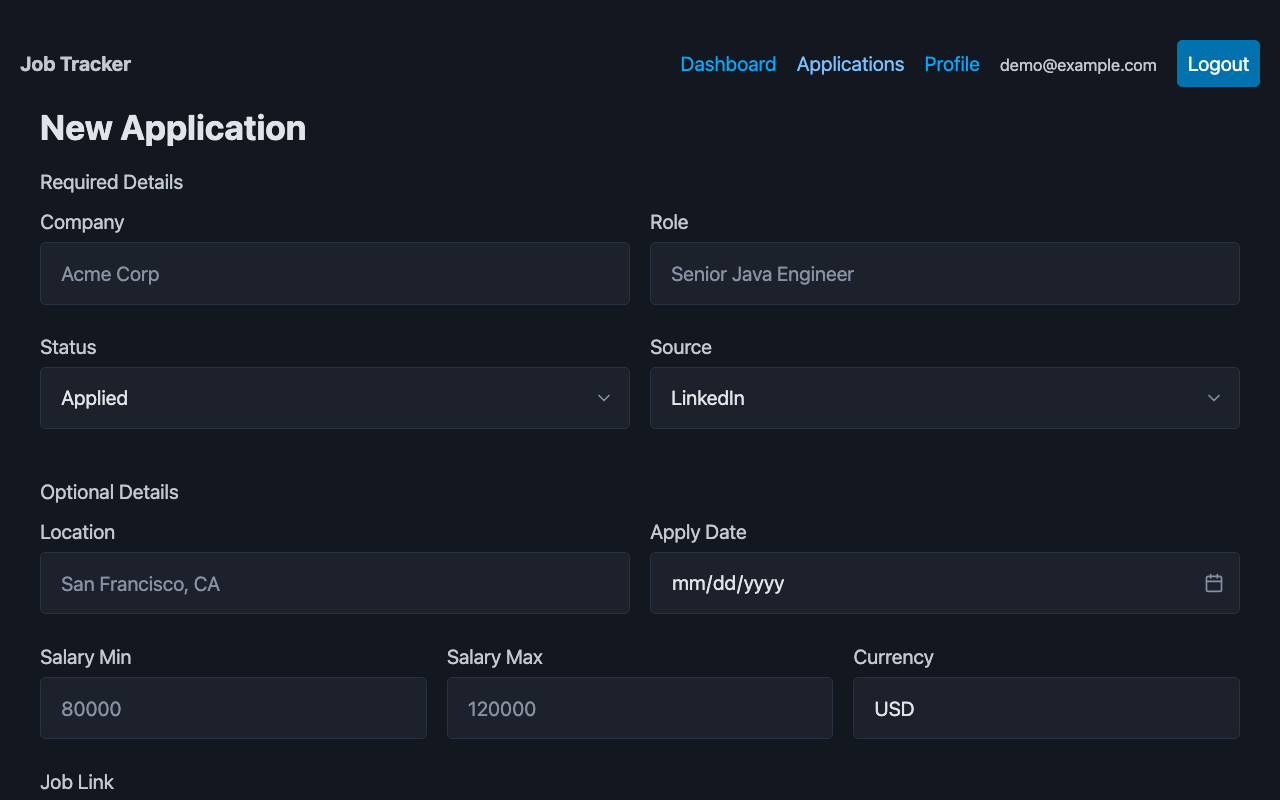
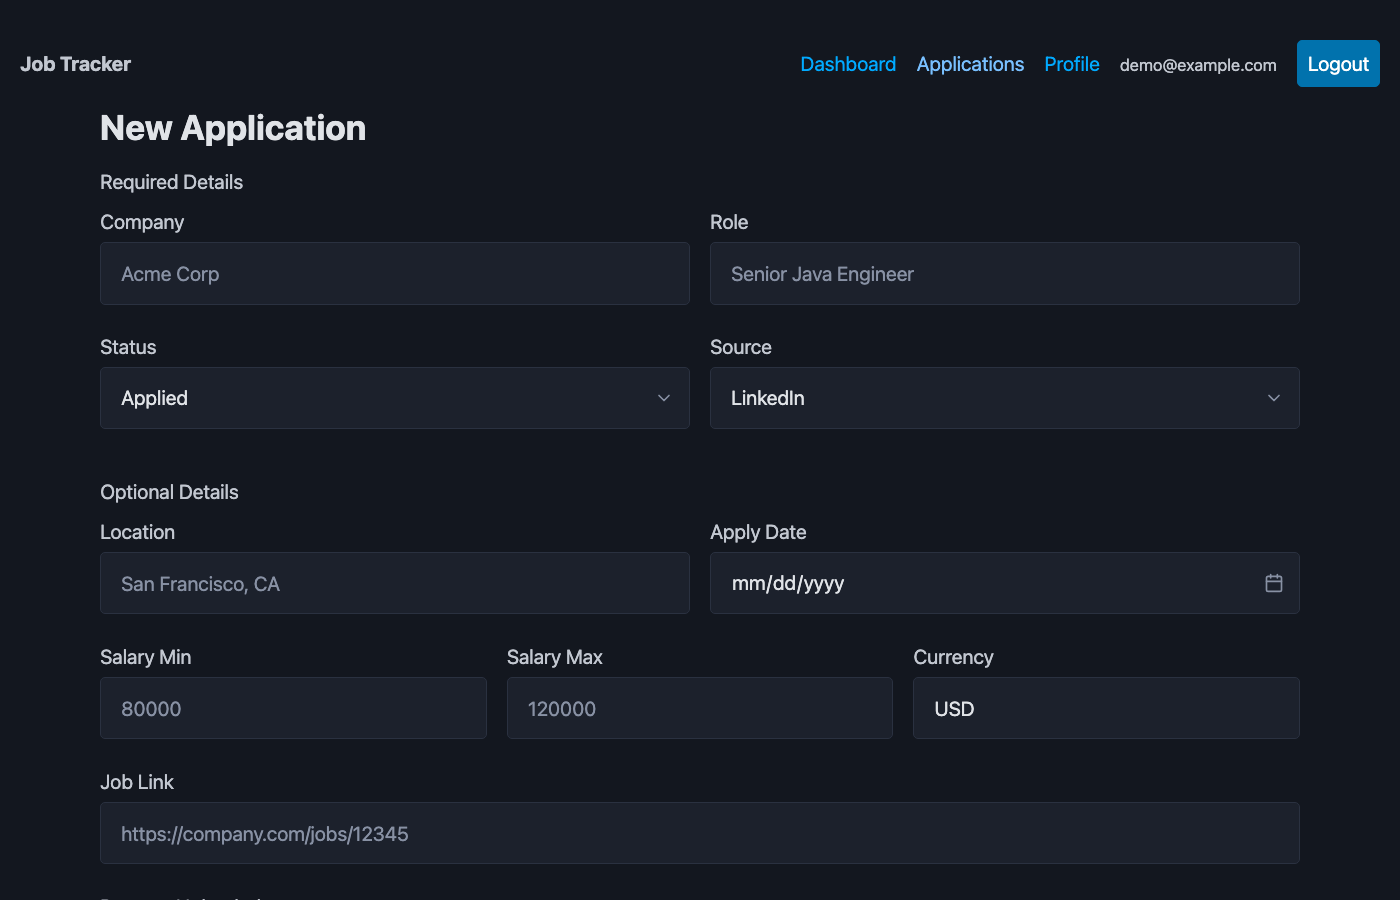
feat: add AI Insights card powered by local LLM (Ollama)
- Add Ollama service to docker-compose (qwen2.5:1.5b, port 11434)
- Add ollama-init one-shot container to pull model on first run
- Add GET /v1/stats/insights endpoint in stats-service: aggregates
  summary/trend/breakdown/roles data, sends to Ollama via RestClient,
  returns 3-5 actionable coaching insights as JSON
- Cache insights in Redis with 30-min TTL; fallback responses are
  never cached so the card recovers automatically once Ollama is ready
- Add InsightsDto record and InsightsService with robust JSON array
  extraction (handles trailing text and code fences from LLM)
- Wire QueryClientProvider in frontend main.tsx
- Add AI Insights card to Dashboard with loading skeleton, refresh
  button, and graceful error/fallback state
- Update README with feature description, API endpoint, service table,
  startup notes, and Ollama badge
- Refresh all screenshots using demo user

diff --git a/frontend/src/routes/Dashboard.tsx b/frontend/src/routes/Dashboard.tsx
@@ -1,8 +1,9 @@
 import { useEffect, useState } from 'react'
+import { useQuery } from '@tanstack/react-query'
 import {
   BarChart, Bar, XAxis, YAxis, CartesianGrid, Tooltip, Legend, ResponsiveContainer,
 } from 'recharts'
-import { getBreakdown, getRoleCounts, type BreakdownResponse, type RoleCountsResponse } from '../api/stats'
+import { getBreakdown, getInsights, getRoleCounts, type BreakdownResponse, type RoleCountsResponse } from '../api/stats'
 
 const USE_MOCK = (import.meta.env.VITE_USE_MOCK ?? 'true') === 'true'
 const CURRENT_YEAR = new Date().getFullYear()
@@ -38,6 +39,20 @@ export default function Dashboard() {
     fetchData(controller.signal)
     return () => controller.abort()
   }, [groupBy, year]) // eslint-disable-line react-hooks/exhaustive-deps
+
+  const {
+    data: insightsData,
+    isLoading: insightsLoading,
+    isError: insightsError,
+    isFetching: insightsFetching,
+    refetch: refetchInsights,
+  } = useQuery({
+    queryKey: ['insights'],
+    queryFn: getInsights,
+    staleTime: 30 * 60 * 1000,
+    retry: 1,
+    enabled: !USE_MOCK,
+  })
 
   const windows = data?.openWindows
   const rows = data?.rows ?? []
@@ -98,6 +113,51 @@ export default function Dashboard() {
         ))}
       </div>
       <p style={{ fontSize: '0.7rem', color: 'var(--pico-muted-color)', marginBottom: '1rem', marginTop: 0 }}>Open applications (excl. Rejected / Accepted / Withdrawn)</p>
+
+      {/* AI Insights card */}
+      {!USE_MOCK && (
+        <article style={{ marginBottom: '1rem', padding: '1rem' }}>
+          <header style={{ display: 'flex', alignItems: 'center', justifyContent: 'space-between', marginBottom: '0.75rem' }}>
+            <span style={{ fontSize: '0.82rem', fontWeight: 600 }}>AI Insights</span>
+            <button
+              style={{ padding: '3px 10px', fontSize: '0.75rem', marginBottom: 0 }}
+              className="secondary"
+              onClick={() => refetchInsights()}
+              disabled={insightsFetching}
+              aria-busy={insightsFetching}
+            >
+              {insightsFetching ? 'Generating…' : 'Refresh'}
+            </button>
+          </header>
+
+          {insightsLoading && (
+            <div style={{ display: 'flex', flexDirection: 'column', gap: '0.5rem' }}>
+              {[80, 65, 72].map(w => (
+                <div key={w} aria-hidden="true" style={{ height: '0.9rem', borderRadius: '4px', background: 'var(--pico-muted-border-color)', width: `${w}%`, animation: 'pulse 1.5s ease-in-out infinite' }} />
+              ))}
+            </div>
+          )}
+
+          {!insightsLoading && insightsError && (
+            <p style={{ fontSize: '0.82rem', color: 'var(--pico-muted-color)', margin: 0 }}>
+              Could not load insights. <button style={{ padding: 0, background: 'none', border: 'none', color: 'var(--pico-primary)', cursor: 'pointer', fontSize: '0.82rem' }} onClick={() => refetchInsights()}>Retry</button>
+            </p>
+          )}
+
+          {!insightsLoading && !insightsError && insightsData && (
+            <>
+              <ul style={{ margin: 0, paddingLeft: '1.2rem', display: 'flex', flexDirection: 'column', gap: '0.35rem' }}>
+                {insightsData.insights.map((insight, i) => (
+                  <li key={i} style={{ fontSize: '0.82rem', lineHeight: 1.5 }}>{insight}</li>
+                ))}
+              </ul>
+              <p style={{ fontSize: '0.68rem', color: 'var(--pico-muted-color)', margin: '0.6rem 0 0' }}>
+                Generated at {new Date(insightsData.generatedAt).toLocaleTimeString()}
+              </p>
+            </>
+          )}
+        </article>
+      )}
 
       {error && <article><header>Error</header><p>{error}</p></article>}
       {loading && <article aria-busy="true"><p>Loading…</p></article>}

diff --git a/frontend/src/main.tsx b/frontend/src/main.tsx
@@ -1,5 +1,6 @@
 import React from 'react'
 import ReactDOM from 'react-dom/client'
+import { QueryClient, QueryClientProvider } from '@tanstack/react-query'
 import { createBrowserRouter, RouterProvider, Navigate } from 'react-router-dom'
 import App from './App'
 import './index.css'
@@ -15,6 +16,8 @@ import ErrorPage from './routes/ErrorPage'
 import { AuthProvider } from './auth/AuthContext'
 import RequireAuth from './auth/RequireAuth'
 import { ErrorBoundary } from './components/ErrorBoundary'
+
+const queryClient = new QueryClient()
 
 const router = createBrowserRouter([
   {
@@ -43,9 +46,11 @@ const router = createBrowserRouter([
 ReactDOM.createRoot(document.getElementById('root')!).render(
   <React.StrictMode>
     <ErrorBoundary>
-      <AuthProvider>
-        <RouterProvider router={router} />
-      </AuthProvider>
+      <QueryClientProvider client={queryClient}>
+        <AuthProvider>
+          <RouterProvider router={router} />
+        </AuthProvider>
+      </QueryClientProvider>
     </ErrorBoundary>
   </React.StrictMode>
 )

diff --git a/frontend/src/api/stats.ts b/frontend/src/api/stats.ts
@@ -78,3 +78,13 @@ export async function getRoleCounts(groupBy: 'month' | 'year', year?: number): P
   const res = await httpStats.get<RoleCountsResponse>('/stats/roles', { params })
   return res.data
 }
+
+export interface InsightsResponse {
+  insights: string[]
+  generatedAt: string
+}
+
+export async function getInsights(): Promise<InsightsResponse> {
+  const res = await httpStats.get<InsightsResponse>('/stats/insights')
+  return res.data
+}

diff --git a/backend/stats-service/src/main/java/com/jobtracker/stats/service/InsightsService.java b/backend/stats-service/src/main/java/com/jobtracker/stats/service/InsightsService.java
@@ -1,0 +1,121 @@
+package com.jobtracker.stats.service;
+
+import com.fasterxml.jackson.databind.JsonNode;
+import com.fasterxml.jackson.databind.ObjectMapper;
+import com.fasterxml.jackson.databind.SerializationFeature;
+import com.fasterxml.jackson.datatype.jsr310.JavaTimeModule;
+import com.jobtracker.stats.api.dto.InsightsDto;
+import com.jobtracker.stats.config.CacheConfig;
+import org.slf4j.Logger;
+import org.slf4j.LoggerFactory;
+import org.springframework.beans.factory.annotation.Value;
+import org.springframework.cache.Cache;
+import org.springframework.cache.CacheManager;
+import org.springframework.http.MediaType;
+import org.springframework.stereotype.Service;
+import org.springframework.web.client.RestClient;
+
+import java.time.LocalDate;
+import java.time.OffsetDateTime;
+import java.util.LinkedHashMap;
+import java.util.List;
+import java.util.Map;
+import java.util.UUID;
+
+@Service
+public class InsightsService {
+
+    private static final Logger log = LoggerFactory.getLogger(InsightsService.class);
+
+    private final StatsService statsService;
+    private final CacheManager cacheManager;
+    private final RestClient restClient;
+    private final String model;
+    private final ObjectMapper objectMapper;
+
+    public InsightsService(
+            StatsService statsService,
+            CacheManager cacheManager,
+            @Value("${ollama.base-url}") String baseUrl,
+            @Value("${ollama.model}") String model) {
+        this.statsService = statsService;
+        this.cacheManager = cacheManager;
+        this.model = model;
+        this.restClient = RestClient.builder()
+                .baseUrl(baseUrl)
+                .defaultHeader("Content-Type", "application/json")
+                .build();
+        this.objectMapper = new ObjectMapper()
+                .registerModule(new JavaTimeModule())
+                .disable(SerializationFeature.WRITE_DATES_AS_TIMESTAMPS);
+    }
+
+    public InsightsDto generateInsights(UUID userId) {
+        // Check cache manually so we can skip caching fallback responses
+        Cache cache = cacheManager.getCache(CacheConfig.CACHE_INSIGHTS);
+        if (cache != null) {
+            Cache.ValueWrapper cached = cache.get(userId.toString());
+            if (cached != null) return (InsightsDto) cached.get();
+        }
+        try {
+            int currentYear = LocalDate.now().getYear();
+
+            Map<String, Object> statsData = new LinkedHashMap<>();
+            statsData.put("summary_30d", statsService.getSummary(userId, 30));
+            statsData.put("trend_12w", statsService.getTrend(userId, 12));
+            statsData.put("breakdown_current_year", statsService.getBreakdown(userId, "month", currentYear));
+            statsData.put("role_distribution_current_year", statsService.getRoleCounts(userId, "month", currentYear));
+
+            String statsJson = objectMapper.writeValueAsString(statsData);
+
+            String prompt = """
+                    You are a job search coach. Analyze this user's job application data.
+                    Respond in English only.
+                    Return ONLY a valid JSON array of 3-5 concise, actionable insight strings. No explanation, no markdown, just the array.
+                    Focus on: response rates by source, ghosting patterns, application velocity, role trends, anomalies.
+
+                    Data: """ + statsJson;
+
+            Map<String, Object> requestBody = Map.of(
+                    "model", model,
+                    "messages", List.of(Map.of("role", "user", "content", prompt)),
+                    "stream", false
+            );
+
+            String requestJson = objectMapper.writeValueAsString(requestBody);
+
+            String responseBody = restClient.post()
+                    .uri("/v1/chat/completions")
+                    .contentType(MediaType.APPLICATION_JSON)
+                    .body(requestJson)
+                    .retrieve()
+                    .body(String.class);
+
+            JsonNode root = objectMapper.readTree(responseBody);
+            String content = root.at("/choices/0/message/content").asText();
+
+            // Extract the JSON array — find first '[' to matching ']', ignoring any surrounding text or code fences
+            int start = content.indexOf('[');
+            int end = content.lastIndexOf(']');
+            if (start == -1 || end == -1 || end <= start) {
+                throw new IllegalArgumentException("No JSON array found in LLM response: " + content);
+            }
+            content = content.substring(start, end + 1);
+
+            List<String> insights = objectMapper.readValue(
+                    content,
+                    objectMapper.getTypeFactory().constructCollectionType(List.class, String.class));
+
+            InsightsDto result = new InsightsDto(insights, OffsetDateTime.now().toString());
+            log.info("Generated {} insights for userId={}", insights.size(), userId);
+            if (cache != null) cache.put(userId.toString(), result);
+            return result;
+
+        } catch (Exception e) {
+            log.warn("Failed to generate insights for userId={}: {}", userId, e.getMessage());
+            return new InsightsDto(
+                    List.of("Insights unavailable — LLM service is starting up."),
+                    OffsetDateTime.now().toString());
+        }
+    }
+}

diff --git a/backend/stats-service/src/main/java/com/jobtracker/stats/config/CacheConfig.java b/backend/stats-service/src/main/java/com/jobtracker/stats/config/CacheConfig.java
@@ -4,6 +4,7 @@ import com.fasterxml.jackson.databind.ObjectMapper;
 import com.fasterxml.jackson.databind.SerializationFeature;
 import com.fasterxml.jackson.datatype.jsr310.JavaTimeModule;
 import com.jobtracker.stats.api.dto.BreakdownResponseDto;
+import com.jobtracker.stats.api.dto.InsightsDto;
 import com.jobtracker.stats.api.dto.RoleCountsResponseDto;
 import com.jobtracker.stats.api.dto.StatsSummaryDto;
 import com.jobtracker.stats.api.dto.TrendResponseDto;
@@ -28,6 +29,7 @@ public class CacheConfig {
     public static final String CACHE_TREND     = "stats-trend";
     public static final String CACHE_BREAKDOWN = "stats-breakdown";
     public static final String CACHE_ROLES     = "stats-roles";
+    public static final String CACHE_INSIGHTS  = "stats-insights";
 
     @Bean
     public RedisCacheManager cacheManager(RedisConnectionFactory cf) {
@@ -55,6 +57,10 @@ public class CacheConfig {
                 .withCacheConfiguration(CACHE_ROLES,
                         base.serializeValuesWith(fromSerializer(
                                 new Jackson2JsonRedisSerializer<>(om, RoleCountsResponseDto.class))))
+                .withCacheConfiguration(CACHE_INSIGHTS,
+                        base.entryTtl(Duration.ofMinutes(30))
+                            .serializeValuesWith(fromSerializer(
+                                new Jackson2JsonRedisSerializer<>(om, InsightsDto.class))))
                 .build();
     }
 }

diff --git a/backend/stats-service/src/main/java/com/jobtracker/stats/api/StatsController.java b/backend/stats-service/src/main/java/com/jobtracker/stats/api/StatsController.java
@@ -1,9 +1,11 @@
 package com.jobtracker.stats.api;
 
 import com.jobtracker.stats.api.dto.BreakdownResponseDto;
+import com.jobtracker.stats.api.dto.InsightsDto;
 import com.jobtracker.stats.api.dto.RoleCountsResponseDto;
 import com.jobtracker.stats.api.dto.StatsSummaryDto;
 import com.jobtracker.stats.api.dto.TrendResponseDto;
+import com.jobtracker.stats.service.InsightsService;
 import com.jobtracker.stats.service.StatsService;
 import jakarta.validation.constraints.Max;
 import jakarta.validation.constraints.Min;
@@ -24,9 +26,11 @@ import java.util.UUID;
 public class StatsController {
 
     private final StatsService svc;
+    private final InsightsService insightsService;
 
-    public StatsController(StatsService svc) {
+    public StatsController(StatsService svc, InsightsService insightsService) {
         this.svc = svc;
+        this.insightsService = insightsService;
     }
 
     @GetMapping("/summary")
@@ -50,6 +54,11 @@ public class StatsController {
             @RequestParam(defaultValue = "month") String groupBy,
             @RequestParam(required = false) Integer year) {
         return svc.getBreakdown(currentUserId(), groupBy, year);
+    }
+
+    @GetMapping("/insights")
+    public InsightsDto getInsights() {
+        return insightsService.generateInsights(currentUserId());
     }
 
     @GetMapping("/roles")

diff --git a/backend/stats-service/src/main/java/com/jobtracker/stats/api/dto/InsightsDto.java b/backend/stats-service/src/main/java/com/jobtracker/stats/api/dto/InsightsDto.java
@@ -1,0 +1,5 @@
+package com.jobtracker.stats.api.dto;
+
+import java.util.List;
+
+public record InsightsDto(List<String> insights, String generatedAt) {}

diff --git a/README.md b/README.md
@@ -10,7 +10,7 @@ A full-stack job application tracking platform built with a microservices archit
 |---|---|
 | ![Login](docs/screenshots/login.png) | ![Register](docs/screenshots/register.png) |
 
-| Dashboard | Applications |
+| Dashboard (with AI Insights) | Applications |
 |---|---|
 | ![Dashboard](docs/screenshots/dashboard.png) | ![Applications](docs/screenshots/applications.png) |
 
@@ -43,6 +43,7 @@ A full-stack job application tracking platform built with a microservices archit
 
 ![Docker](https://img.shields.io/badge/Docker-Compose-2496ED?style=flat-square&logo=docker)
 ![Redis](https://img.shields.io/badge/Redis-7-DC382D?style=flat-square&logo=redis)
+![Ollama](https://img.shields.io/badge/Ollama-LLM-000000?style=flat-square)
 ![Prometheus](https://img.shields.io/badge/Prometheus-monitoring-E6522C?style=flat-square&logo=prometheus)
 ![Zipkin](https://img.shields.io/badge/Zipkin-tracing-FE7139?style=flat-square)
 
@@ -103,7 +104,8 @@ JobTracker follows an **event-driven CQRS-like pattern** — writes and reads ar
 | **config-server** | 8888 | Centralized config for all services (Spring Cloud Config) |
 | **PostgreSQL** | 5432 | Two databases: `jt_apps` (write) and `jt_stats` (read) |
 | **Kafka** | 9092 | KRaft mode, topic: `application-events` |
-| **Redis** | 6379 | Cache for all three stats endpoints, 5-minute TTL |
+| **Redis** | 6379 | Cache for stats endpoints (5-min TTL) and AI insights (30-min TTL) |
+| **Ollama** | 11434 | Local LLM server — serves `qwen2.5:1.5b` for AI insights generation |
 | **Prometheus** | 9090 | Scrapes `/actuator/prometheus` from all Spring Boot services |
 | **Zipkin** | 9411 | Distributed tracing, 100% sampling |
 
@@ -126,6 +128,7 @@ This is the **Transactional Outbox Pattern** — Kafka being down never causes d
 - **CSV Import** — Bulk import applications from a spreadsheet export; handles quoted commas, multiple date formats, salary parsing (`$50K`, `50,000–80,000`), and flexible status mapping (`Open` → APPLIED, `Closed` → REJECTED, Open + Call → PHONE)
 - **Bulk delete** — Select any number of applications via per-row checkboxes or the select-all header checkbox, then delete them all in one click; deletions are fired in parallel and the list updates immediately
 - **Advanced filtering** — Filter applications by status, search (company/role), month, year, and call received; sort by apply date or date added; page-based pagination (20 per page)
+- **AI Insights** — The Dashboard includes an "AI Insights" card powered by a locally-running LLM (Ollama + `qwen2.5:1.5b`). It aggregates all your stats data (30-day summary, 12-week trend, monthly breakdown, role distribution) and generates 3–5 concise, actionable coaching insights. Responses are cached in Redis for 30 minutes; a Refresh button busts the cache on demand. Fully offline — no API key required
 - **Analytics Dashboard** — By Month / By Year toggle with grouped Applied vs Rejected bar chart, summary table, and 7 open-window KPI cards (last 7d / 15d / 30d / 3mo / 6mo / 9mo / 1yr)
 - **Pre-computed aggregate tables** — `agg_monthly` and `agg_weekly` in `jt_stats` are maintained in-sync by stats-listener (recomputed atomically on every Kafka event); stats-service reads from these tables with indexed scans instead of live GROUP BY on the raw snapshot
 - **Redis caching** — All three stats endpoints (`/summary`, `/trend`, `/breakdown`) are cached in Redis with a 5-minute TTL, keyed per-user; the stats-listener evicts the affected user's cache keys immediately after processing each Kafka event, so the dashboard always reflects the latest data
@@ -199,6 +202,9 @@ Response: {
   rows: [{ label, periodNum, totalApplied, totalRejected, totalOpen }],
   openWindows: { last7d, last15d, last30d, last3m, last6m, last9m, last1y }
 }
+
+GET /v1/stats/insights
+Response: { insights: ["...", "...", "..."], generatedAt }
 ```
 
 Swagger UI available at `http://localhost:8081/swagger-ui.html` and `http://localhost:8082/swagger-ui.html`.
@@ -235,7 +241,9 @@ docker compose up
 ```
 
 Docker startup order is automatically enforced:
-`postgres + kafka + redis + config-server` → `applications-service + stats-service + stats-listener` → `api-gateway`
+`postgres + kafka + redis + config-server + ollama` → `applications-service + stats-service + stats-listener + ollama-init` → `api-gateway`
+
+> **First run note:** An `ollama-init` container automatically pulls `qwen2.5:1.5b` (~1GB) on first startup. The AI Insights card shows a graceful fallback message until the download completes. The model is cached in the `ollama_data` Docker volume and is not re-downloaded on subsequent runs.
 
 ### 3. Start the frontend
 
